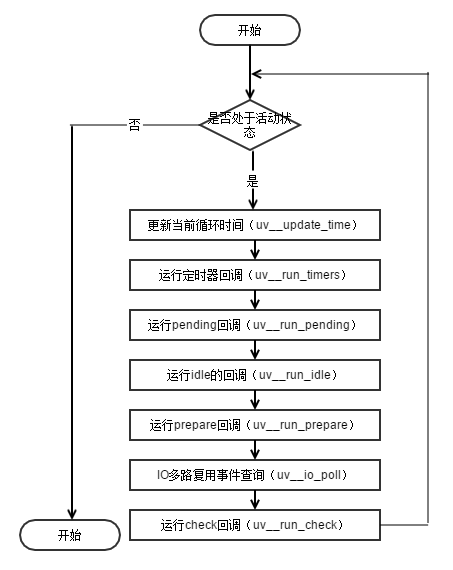
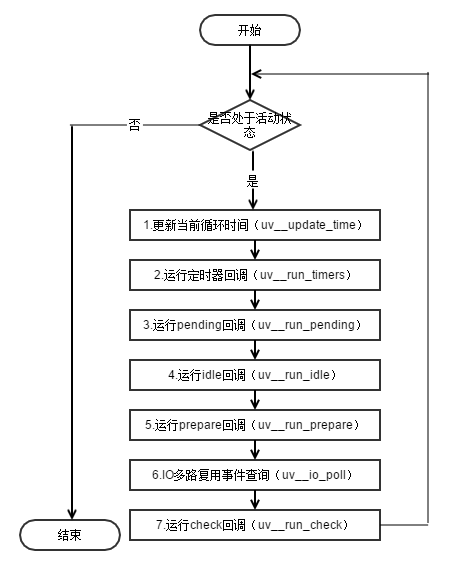
修改uv_run流程图

diff --git a/text/01_node_introduce.md b/text/01_node_introduce.md
@@ -141,5 +141,11 @@ int uv_run(uv_loop_t* loop, uv_run_mode mode) {
 可能很多人对C代码不是很熟，没有关系，我们直接给出他的流程图，参数 `uv_run_mode` 代表当前事件轮询使用的方式，如果是其值为`UV_RUN_DEFAULT`的话，事件轮询一直运行，除非是调用了 `uv_stop()` 函数，如果值为 `UV_RUN_ONCE` 或者 `UV_RUN_NOWAIT` 的话，则只循环一次。
 
 这里仅仅给出 uv_run_mode 为 `UV_RUN_DEFAULT` 的流程图：
+![uv_run默认流程图](https://raw.githubusercontent.com/yunnysunny/nodebook/master/images/uv_run.png)  
+**图1.2.1 uv_run默认流程图**
 
-在讲事件轮询之前，我们得先来讲述一下libuv的线程模型。事件轮询运行在一个单独的线程中；此外libuv还有一个线程池，可以用来处理文件IO、DNS解析，还有用户自己编写的代码也可以调用它。libuv 在处理完一个文件 IO 操作后，会把处理后的结果发送到 pending 队列中，
+在讲事件轮询之前，我们得先来讲述一下libuv的线程模型，在libuv大体上可以把线程分为两类，一类是事件轮询线程，一类是文件IO处理线程。第一类事件轮询线程是单线程；另外一类称其为文件IO处理线程多少有些不准确，因为他不仅能处理文件IO，还能处理DNS解析，也能处理用户自己编写的node扩展中的逻辑，他是一个线程池，如果你想自己编写一个 c++ 扩展来处理耗时业务的话，就会用上它（我们将在第9章讲c++扩展内容）。
+
+我们这里拿文件IO处理举个栗子，来描述这两类线程之前是怎么通信的。libuv 在处理完一个文件 IO 操作后，会把处理后的结果发送到 pending 队列中；事件轮询线程读取 pending 队列，执行回调函数，也就是图1.2.1中第3步操作。
+
+好这里定时器回调、pending回调，我们都能明白，但是这里的idle、prepare、check回调都是什么鬼，这个其实是一些自定义回调事件，在事件
